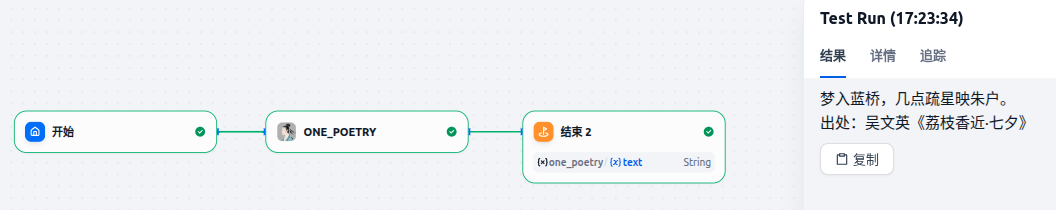
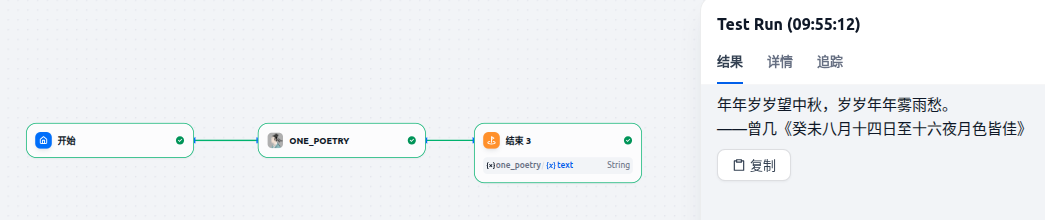
根据提交要求修改： 1、PRIVACY.md的详细内容 2、README.md的中文描述 3、代码中设计的中文字符

diff --git a/tools/one_poetry.py b/tools/one_poetry.py
@@ -11,17 +11,16 @@ class OnePoetryTool(Tool):
     def _invoke(self, tool_parameters: dict[str, Any]) -> Generator[ToolInvokeMessage]:
 
         try:
-            # 调用今日诗词API获取随机古诗词
             response = requests.get("https://v1.jinrishici.com/all.json", timeout=5)
             response.raise_for_status()
 
             data = response.json()
 
-            format_str = f"""\r\n{str(data["content"])}\r\n出处：{str(data["author"])}《{str(data["origin"])}》\r\n"""
+            format_str = f"""\r\n{str(data["content"])}\r\n——{str(data["author"])}《{str(data["origin"])}》\r\n"""
 
             yield self.create_text_message(format_str)
 
         except requests.exceptions.RequestException as e:
-            raise Exception(f"获取古诗词失败: {str(e)}")
+            raise Exception(f"Failed to retrieve data: {str(e)}")
         except ValueError as e:
-            raise Exception(f"解析古诗词数据失败: {str(e)}")
+            raise Exception(f"Failed to parse data: {str(e)}")

diff --git a/README.md b/README.md
@@ -1,32 +1,48 @@
-## 一句话诗词
+## One Poetry
 
-**作者：** feiwangoooh  
-**版本：** 0.0.1  
-**类型：** 工具  
+**Author:** feiwangoooh  
+**Version:** 0.0.1  
+**Type:** Tool 
 
-### 描述
-随机返回一句古诗词名句
 
-### 插件说明
-这是一个基于 [古诗词·一言API](http://gushi.ci/) 开发的 Dify 插件，可以随机返回一句古诗词名句。该插件无需任何凭据或其他配置信息，调用工具即可获得随机的古典诗词句子及其作者和出处信息。
 
-### 功能特性
-- 随机返回一句古诗词名句
-- 自动包含作者和出处信息
-- 无需凭据或额外配置
-- 基于 **Dify** 插件构建
+### Description
 
-### 使用截图
-<img src="images/1.png" width="1056" height="210">
-<img src="images/2.png" width="1295" height="713">
+Randomly returns a famous line from classical Chinese poetry.  
 
-### 致谢
-在此感谢[古诗词·一言API](http://gushi.ci/)的作者对中国传统文化的贡献
+### Plugin Description
 
-### 实现细节
-该插件通过向古诗词·一言API (`https://v1.jinrishici.com/all.json`) 发送请求并格式化响应来工作，返回内容包括：
-- 诗词句子
-- 作者
-- 原始作品
+This is a Dify plugin developed based on the [GuShiCi·YiYanAPI](http://gushi.ci/), which can randomly return a famous line from classical Chinese poetry. The plugin requires no credentials or additional configuration. Simply call the tool to receive a random classical poetry line along with its author and source information.  
 
-实现在 [tools/one_poetry.py](tools/one_poetry.py) 文件中，使用 Python 和 requests 库完成。
+### Features
+
+- Randomly returns a famous line from classical Chinese poetry
+- Automatically includes author and source information
+- No credentials or additional configuration required
+- Built based on the ** Dify ** plugin framework  
+
+### Usage Screenshots
+
+<img src="images/1.png" width="1056" height="210">  
+<img src="images/2.png" width="1295" height="713">  
+
+### Implementation Details
+
+The plugin works by sending requests to the [GuShiCi·YIYanAPI](https://v1.jinrishici.com/all.json) and formatting the response. The returned content includes:  
+- The poetry line
+- Author information
+- Original work source  
+
+Implemented in the [tools/one_poetry.py](tools/one_poetry.py) file using Python and the requests library.  
+
+### Repository Address
+
+https://github.com/feiwangoooh/one_poetry/  
+
+### Contact Information
+
+2272142334@qq.com  
+
+### Acknowledgments
+
+Special thanks to the author of the [GuShiCi·YIYanAPI](http://gushi.ci/) for their contribution to Chinese traditional culture.

diff --git a/readme/README_en_US.md b/readme/README_en_US.md
@@ -4,13 +4,45 @@
 **Version:** 0.0.1  
 **Type:** Tool 
 
-### Tool Description
-- This plugin is developed based on [古诗词·一言API](http://gushi.ci/)  
-- No credentials or other information required, call the tool to randomly return a famous line of ancient poetry  
+
+
+### Description
+
+Randomly returns a famous line from classical Chinese poetry.  
+
+### Plugin Description
+
+This is a Dify plugin developed based on the [GuShiCi·YiYanAPI](http://gushi.ci/), which can randomly return a famous line from classical Chinese poetry. The plugin requires no credentials or additional configuration. Simply call the tool to receive a random classical poetry line along with its author and source information.  
+
+### Features
+
+- Randomly returns a famous line from classical Chinese poetry
+- Automatically includes author and source information
+- No credentials or additional configuration required
+- Built based on the ** Dify ** plugin framework  
 
 ### Usage Screenshots
-<img src="/home/feiw/PycharmProjects/DifyPlugins/one_poetry/images/1.png" width="1056" height="210">
-<img src="/home/feiw/PycharmProjects/DifyPlugins/one_poetry/images/2.png" width="1295" height="713">
 
-### Acknowledgements
-Thanks to the author of [古诗词·一言API](http://gushi .ci/) for their contribution to Chinese traditional culture
+<img src="images/1.png" width="1056" height="210">  
+<img src="images/2.png" width="1295" height="713">  
+
+### Implementation Details
+
+The plugin works by sending requests to the [GuShiCi·YIYanAPI](https://v1.jinrishici.com/all.json) and formatting the response. The returned content includes:  
+- The poetry line
+- Author information
+- Original work source  
+
+Implemented in the [tools/one_poetry.py](tools/one_poetry.py) file using Python and the requests library.  
+
+### Repository Address
+
+https://github.com/feiwangoooh/one_poetry/  
+
+### Contact Information
+
+2272142334@qq.com  
+
+### Acknowledgments
+
+Special thanks to the author of the [GuShiCi·YIYanAPI](http://gushi.ci/) for their contribution to Chinese traditional culture.

diff --git a/readme/README_zh_Hans.md b/readme/README_zh_Hans.md
@@ -2,17 +2,38 @@
 
 **作者：** feiwangoooh  
 **版本：** 0.0.1  
-**类型：** 工具 
+**类型：** 工具  
 
-### 工具说明
-- 本插件基于[古诗词·一言API](http://gushi.ci/)开发  
-- 无需任何凭据或其他信息，调用该工具，随机返回一句古诗词名句  
+### 描述
+随机返回一句古诗词名句
+
+### 插件说明
+这是一个基于 [古诗词·一言API](http://gushi.ci/) 开发的 Dify 插件，可以随机返回一句古诗词名句。该插件无需任何凭据或其他配置信息，调用工具即可获得随机的古典诗词句子及其作者和出处信息。
+
+### 功能特性
+- 随机返回一句古诗词名句
+- 自动包含作者和出处信息
+- 无需凭据或额外配置
+- 基于 **Dify** 插件构建
 
 ### 使用截图
-<img src="/home/feiw/PycharmProjects/DifyPlugins/one_poetry/images/1.png" width="1056" height="210">
-<img src="/home/feiw/PycharmProjects/DifyPlugins/one_poetry/images/2.png" width="1295" height="713">
+<img src="images/1.png" width="1056" height="210">
+<img src="images/2.png" width="1295" height="713">
+
+
+### 实现细节
+该插件通过向[古诗词·一言API](`https://v1.jinrishici.com/all.json`) 发送请求并格式化响应来工作，返回内容包括：
+- 诗词句子
+- 作者
+- 原始作品
+
+实现在 [tools/one_poetry.py](tools/one_poetry.py) 文件中，使用 Python 和 requests 库完成。
+
+### 仓库地址
+https://github.com/feiwangoooh/one_poetry/
+
+### 联系方式
+2272142334@qq.com
 
 ### 致谢
 在此感谢[古诗词·一言API](http://gushi.ci/)的作者对中国传统文化的贡献
-
-

diff --git a/PRIVACY.md b/PRIVACY.md
@@ -1,3 +1,3 @@
 ## Privacy
 
-该插件不会收集任何用户数据
+The plugin's data is entirely sourced from public websites, and it does not collect any user information during operation.
